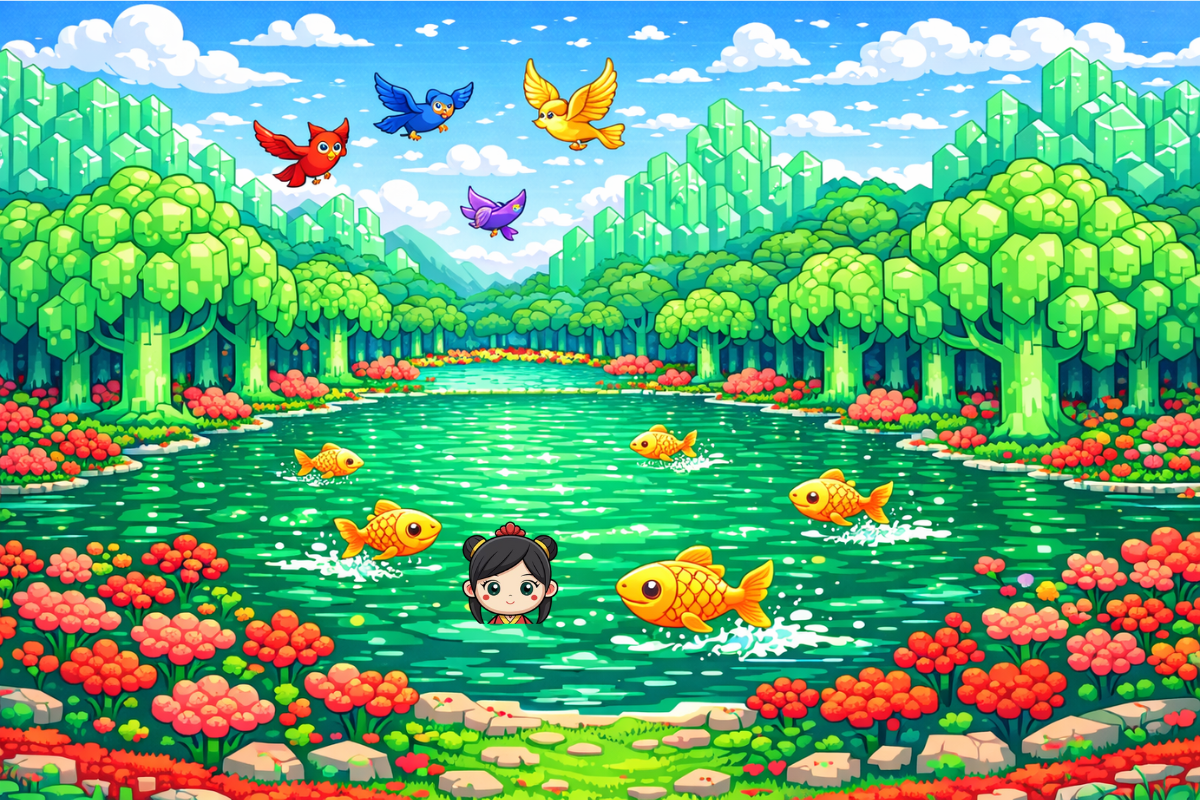
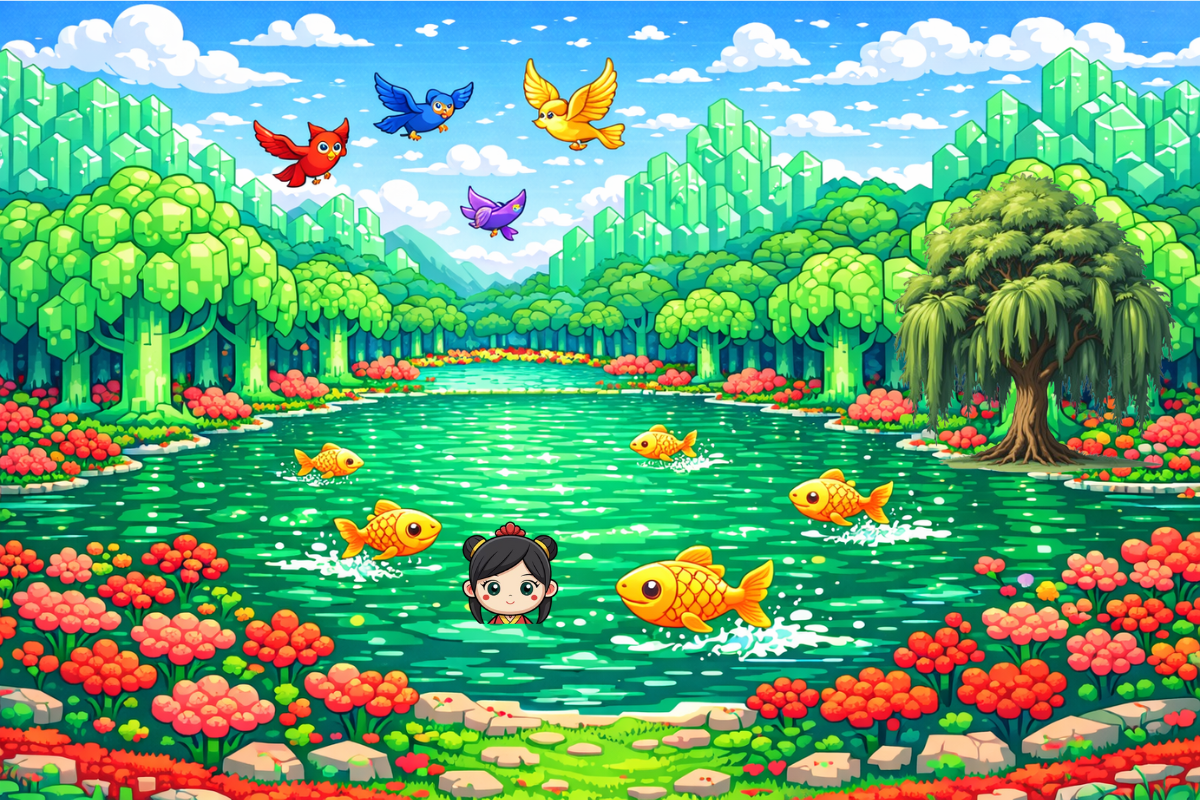
Worked on it even even more to finish code.

Changed region(s): [[0.74, 0.2188, 0.9867, 0.5938]]

diff --git a/src/culminatingculturestory/MySketch.java b/src/culminatingculturestory/MySketch.java
@@ -25,7 +25,8 @@ public class MySketch extends PApplet {
     private PImage imagetext;
     private PImage invsbox;
     private PImage cowFlippedImg;
-    private int cowDialogueStep = 0;
+    private int cowDialogueStep = 0; // variable to create next speech bubbles
+    private int forestDialogueStep = -1;
     private PImage cowSpeechImg;
     private PImage cowSpeechImg2;
     private PImage cowSpeechImg3;
@@ -36,10 +37,12 @@ public class MySketch extends PApplet {
     private PImage textGameWin;
     private PImage forestClothesGone;
     private PImage cowSpeechImg4;
-    private PImage cowSpeechImg4;
-    private PImage cowSpeechImg4;
-    private PImage cowSpeechImg4;
-    private PImage cowSpeechImg4;
+    private PImage girlSpeechImg1;
+    private PImage boySpeechImg1;
+    private PImage girlSpeechImg2;
+    private PImage cowSpeechImg5;
+    private PImage cowSpeechImg6;
+    private PImage treeSpeechImg1;
     int stage = 0; // Variable for me scenes
     private boolean cowFlipped = false; // Boolean variable to allow me to flip cow
     private boolean showCowSpeech = false; // Boolean variable to show cow speaking
@@ -75,6 +78,12 @@ public class MySketch extends PApplet {
         this.textGameWin = this.loadImage("images/textForest.png");
         this.forestClothesGone = this.loadImage("images/forestNoClothes.png");
         this.cowSpeechImg4 = this.loadImage("images/cowSpeech4.png");
+        this.girlSpeechImg1 = this.loadImage("images/womenSpeech1.png");
+        this.boySpeechImg1 = this.loadImage("images/manSpeech1.png");
+        this.girlSpeechImg2 = this.loadImage("images/womenSpeech2.png");
+        this.cowSpeechImg5 = this.loadImage("images/cowSpeech5.png");
+        this.cowSpeechImg6 = this.loadImage("images/cowSpeech6.png");
+        this.treeSpeechImg1 = this.loadImage("images/treeSpeech1.png");
         background(255); // set the background color to white
         // creating person objects for dectections and other important things
         person = new Person(this, 200, 600, "Mr. Loo", 99, "images/herdman.png"); 
@@ -150,18 +159,38 @@ public class MySketch extends PApplet {
 
             if (gameWin) {
                 stage = 3;
+                
             }
         } else if(stage == 3){
+            ridingCowTwo.x = 100;
+            ridingCowTwo.y = 600;
             background(255);
             this.image(forest, 0, 0);
             ridingCowTwo.draw();
             this.image(textGameWin, 150, 100);   
             this.image(cowSpeechImg4, 120, 450);
         } else if(stage == 4){
+            ridingCowTwo.x = 100;
+            ridingCowTwo.y = 600;
             background(255);
             this.image(forestClothesGone, 0, 0);
             ridingCowTwo.draw();
-            
+            if (forestDialogueStep == 0){
+                image(girlSpeechImg1, 420, 350);
+            } else if (forestDialogueStep == 1){
+                image(boySpeechImg1, 110, 445);
+            } else if (forestDialogueStep == 2){
+                image(girlSpeechImg2, 420, 350);
+            } else if (forestDialogueStep == 3){
+                image(cowSpeechImg5, 120, 450);
+            } else if (forestDialogueStep == 4){
+                image(cowSpeechImg6, 120, 450);
+            } else if (forestDialogueStep == 5){
+                image(treeSpeechImg1, 900, 100);
+            } else if (forestDialogueStep == 6){
+                stage = 5;
+            }
+
         }
         
     }
@@ -289,6 +318,18 @@ public class MySketch extends PApplet {
             if (mouseX >= clothesX && mouseX <= clothesX + clothesW &&
                 mouseY >= clothesY && mouseY <= clothesY + clothesH) {
                 stage = 4;
+            }
+        }
+        if (stage == 4) {
+            int bubbleX = 0;
+            int bubbleY = 0;
+            int bubbleW = 1200;
+            int bubbleH = 800;
+
+            if (mouseX >= bubbleX && mouseX <= bubbleX + bubbleW &&
+                mouseY >= bubbleY && mouseY <= bubbleY + bubbleH) {
+
+                forestDialogueStep++;
             }
         }
     }
